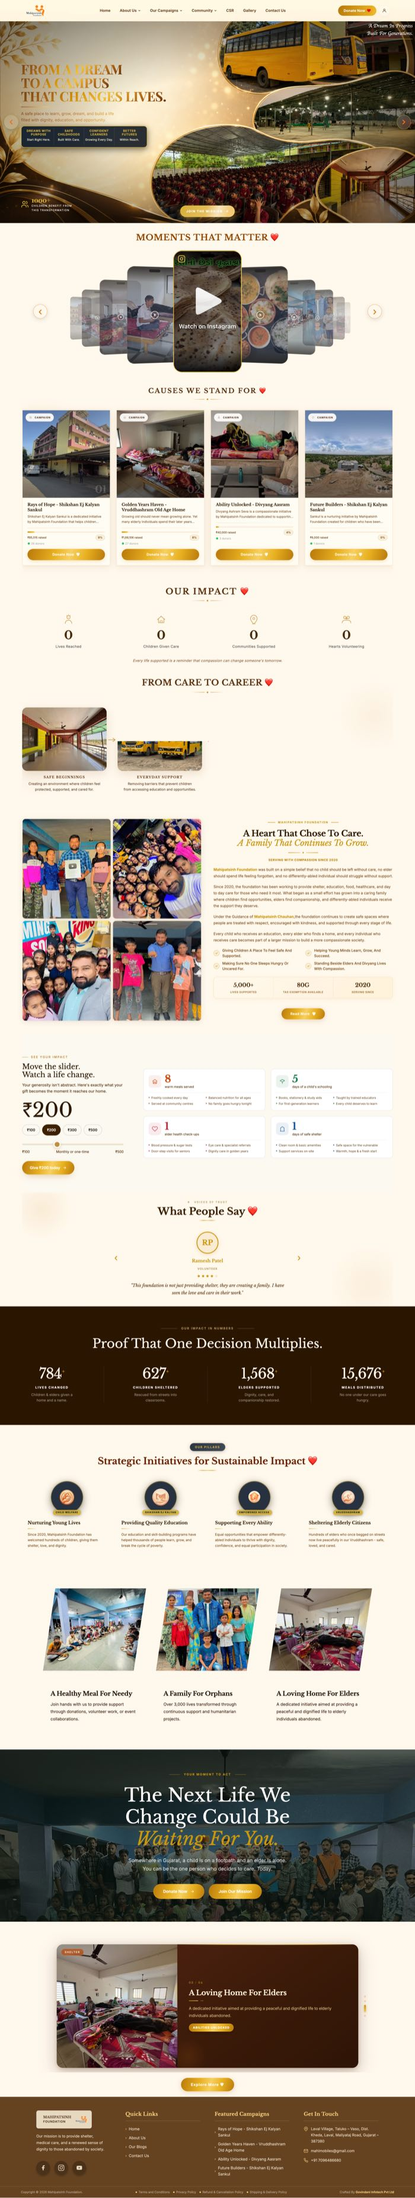
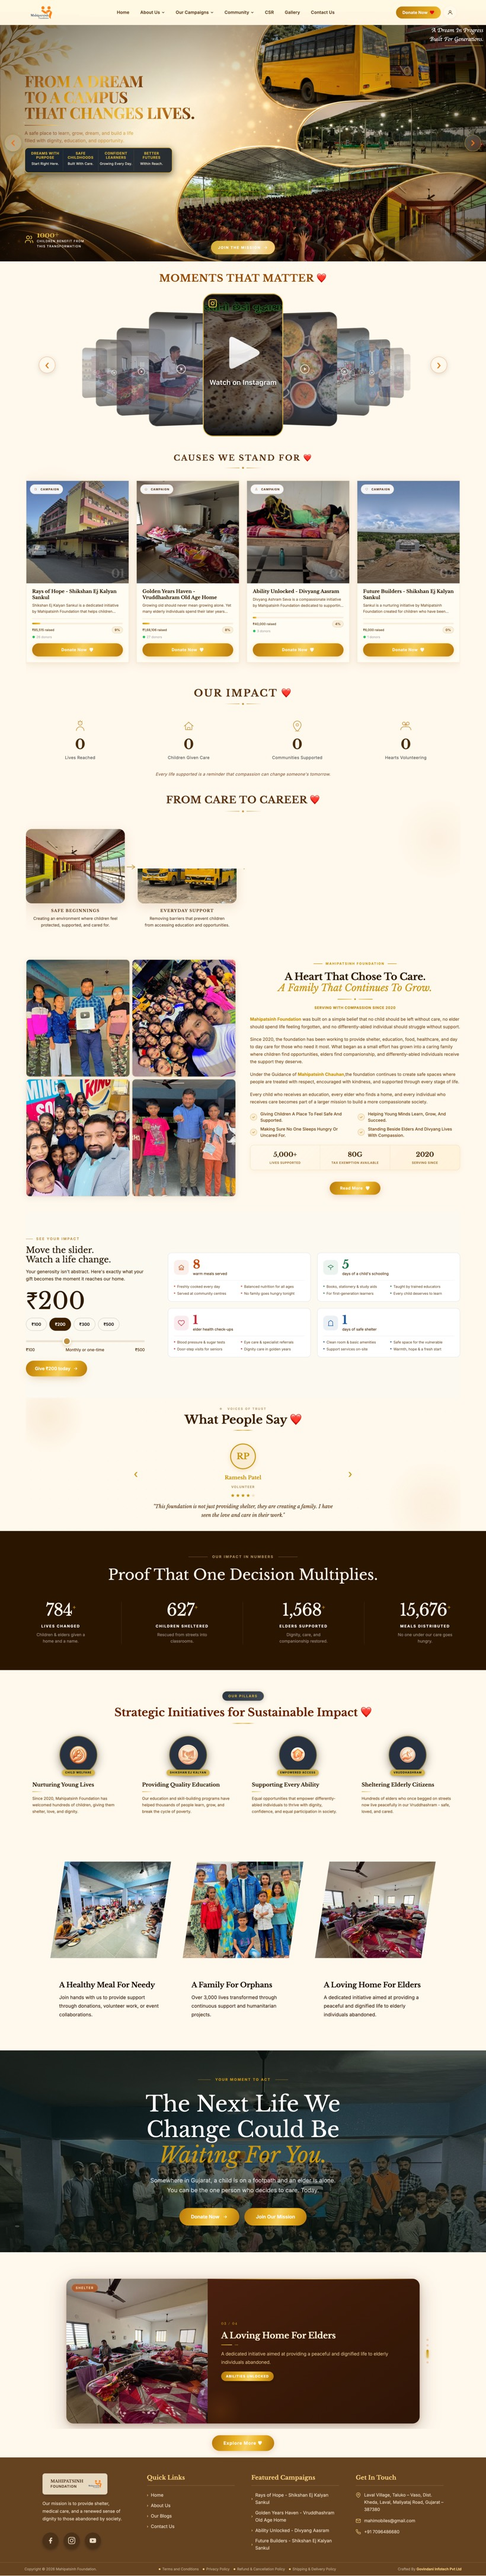
USA landing page (/usa), mahipat screenshot refresh, hide NGO-backbone section
- New /usa + /us dedicated landing: clean standalone (site header/bottom-nav
  hidden on these routes), hero, NGO/E-commerce/Healthcare work carousels,
  US-registration trust block, Calendly booking, footer
- Mahipatsinh Foundation: new full-page 'campus' capture used everywhere
  (homepage LatestWork + NGO portfolio card)
- Hide 'We build backbones' NGO-infrastructure section from homepage

Changed region(s): [[0.27, 0.3723, 0.3, 0.4033]]

diff --git a/src/pages/UsaLanding.tsx b/src/pages/UsaLanding.tsx
@@ -1,0 +1,181 @@
+import { useEffect } from 'react';
+import { Helmet } from 'react-helmet-async';
+import '@/styles/usa.css';
+
+/**
+ * Dedicated USA landing page — a single shareable link for US prospects.
+ * Showcases our website + social-media services, real work by category
+ * (NGO / E-Commerce / Healthcare carousels), our US registration for trust,
+ * and a Calendly booking to schedule a consultation.
+ *
+ * PLACEHOLDERS to confirm with the client:
+ *   - CALENDLY_URL  → replace with the real Calendly scheduling link
+ *   - LEGAL_DOCS    → add the actual US registration / incorporation document images/PDFs
+ *   - a few USA-specific site links the client will share
+ */
+
+const CALENDLY_URL = 'https://calendly.com/govindaniit/consultation'; // TODO: confirm real link
+const R2 = 'https://pub-8d8c06eb82144fca803dab6ccecd7b41.r2.dev/Images';
+const ECOM = `${R2}/PortfolioProjects/PortFolioWebsites/E-Commerce`;
+
+const NGO_WORK = [
+  { name: 'Mahipatsinh Foundation', url: 'https://mahipatsinhfoundation.org', img: '/images/portfolio-sites/mahipatsinh.jpg' },
+  { name: 'Aajol Parivar', url: 'https://aajol.org', img: '/images/portfolio-sites/aajol-parivar.jpg' },
+  { name: 'Anugrah Foundation', url: 'https://anugrahfoundation.org', img: '/images/portfolio-sites/anugrah-foundation.jpg' },
+  { name: 'Amee Foundation', url: 'https://ameefoundation.com', img: '/images/portfolio-sites/amee-foundation.jpg' },
+  { name: 'Nostro Destino Foundation', url: 'https://nostrodestino.org', img: '/images/portfolio-sites/nostro-destino-foundation.jpg' },
+  { name: 'Bhumi Mitra Foundation', url: 'https://bhumimitra.org', img: '/images/portfolio-sites/bhumi-mitra-foundation.jpg' },
+  { name: 'Kishan Singh Foundation', url: 'https://kishanfoundation.org', img: '/images/portfolio-sites/kishan-singh-foundation.jpg' },
+  { name: 'Handmade Heart Foundation', url: 'https://handmadehearts.org', img: '/images/portfolio-sites/handmade-heart-foundation.jpg' },
+];
+
+const ECOM_WORK = [
+  { name: 'Baba Ji Ki Buti', url: 'https://babajikibuti.com/home', img: `${ECOM}/Coding/Coding-Babajikibuti.webp` },
+  { name: 'Tarush Pranaa', url: 'https://tarushpranaa.com', img: `${ECOM}/Coding/Coding-Tarushpranna.webp` },
+  { name: 'Terra by Trishla', url: '#', img: `${ECOM}/Wordpress/Wordpress-Terra-By-Trishla.webp` },
+  { name: 'GSD Organics', url: '#', img: `${ECOM}/Wordpress/Wordpress-Gsd-Organics.webp` },
+  { name: 'Mukta Shop', url: '#', img: `${ECOM}/Shopify/Shopify-Muktashop.webp` },
+  { name: 'Gllora', url: '#', img: `${ECOM}/Shopify/Shopify-Gllora.webp` },
+  { name: 'Kryelet Studios', url: '#', img: `${ECOM}/Shopify/Shopify-kryelet-studios.webp` },
+];
+
+const HEALTH_WORK = [
+  { name: 'Dentivaa', url: 'https://dentivaa.com', img: '/images/portfolio-sites/dentivaa.jpg' },
+  { name: 'Mahaveer Eye Hospital', url: 'https://mahaveereyehospital.com', img: `${R2}/PortfolioProjects/PortFolioWebsites/Healthcare/Healthcare-mahaveer-eye-hospital.webp` },
+];
+
+function Carousel({ id, items }: { id: string; items: { name: string; url: string; img: string }[] }) {
+  return (
+    <div className="gusa-rail" aria-label={id}>
+      {items.map((w) => (
+        <a key={w.name} className="gusa-slide" href={w.url && w.url !== '#' ? w.url : undefined}
+           target={w.url && w.url !== '#' ? '_blank' : undefined} rel="noopener noreferrer">
+          <div className="gusa-shot"><img src={w.img} alt={`${w.name} website by Govindani Infotech`} loading="lazy" /></div>
+          <span className="gusa-slide-name">{w.name}{w.url && w.url !== '#' && <em> &#8599;</em>}</span>
+        </a>
+      ))}
+    </div>
+  );
+}
+
+export default function UsaLanding() {
+  useEffect(() => {
+    // Load Calendly inline widget assets once.
+    const css = document.createElement('link');
+    css.rel = 'stylesheet'; css.href = 'https://assets.calendly.com/assets/external/widget.css';
+    document.head.appendChild(css);
+    const s = document.createElement('script');
+    s.src = 'https://assets.calendly.com/assets/external/widget.js'; s.async = true;
+    document.body.appendChild(s);
+    return () => { css.remove(); s.remove(); };
+  }, []);
+
+  return (
+    <div className="gusa">
+      <Helmet>
+        <title>US Web &amp; Social Media Partner | Govindani Infotech</title>
+        <meta name="description" content="Govindani Infotech builds high-converting websites, e-commerce stores and social media for US businesses & non-profits. US-registered. Book a free consultation." />
+      </Helmet>
+
+      {/* top bar */}
+      <header className="gusa-top">
+        <img className="gusa-logo" src={`${R2}/govindanilogo-400w.webp`} alt="Govindani Infotech" />
+        <a className="gusa-top-cta" href="#book">Book a consultation</a>
+      </header>
+
+      {/* hero */}
+      <section className="gusa-hero">
+        <div className="gusa-hero-in">
+          <p className="gusa-eyebrow">US-registered &middot; Wyoming, USA</p>
+          <h1 className="gusa-h1">Websites &amp; social media that<br /><em>grow US businesses</em></h1>
+          <p className="gusa-lead">
+            We design, build and market high-converting websites, online stores and social presence for
+            US companies and non-profits &mdash; custom-coded to your goals, delivered end-to-end.
+          </p>
+          <div className="gusa-hero-cta">
+            <a className="gusa-btn" href="#book">Book a free consultation &rarr;</a>
+            <a className="gusa-btn gusa-btn-ghost" href="#work">See our work</a>
+          </div>
+          <ul className="gusa-trustchips">
+            <li>&#127482;&#127480; US-registered entity</li>
+            <li>&#10003; Meta Business Partner</li>
+            <li>&#10003; 200+ websites delivered</li>
+          </ul>
+        </div>
+      </section>
+
+      {/* services */}
+      <section className="gusa-services">
+        <h2 className="gusa-h2">What we do for you</h2>
+        <div className="gusa-svc-grid">
+          <div className="gusa-svc"><span className="gusa-svc-ic">&#128187;</span><h3>Website design &amp; development</h3><p>Custom, fast, mobile-first websites that turn visitors into customers.</p></div>
+          <div className="gusa-svc"><span className="gusa-svc-ic">&#128722;</span><h3>E-commerce stores</h3><p>Shopify, WooCommerce &amp; custom stores built to sell and scale.</p></div>
+          <div className="gusa-svc"><span className="gusa-svc-ic">&#128241;</span><h3>Social media marketing</h3><p>Content, campaigns and Meta ads managed by a Meta Business Partner.</p></div>
+        </div>
+      </section>
+
+      {/* work carousels */}
+      <section className="gusa-work" id="work">
+        <h2 className="gusa-h2">A snapshot of our work</h2>
+        <p className="gusa-sub">A few examples per category &mdash; scroll sideways. Every site below is live and custom-built.</p>
+
+        <div className="gusa-cat">
+          <h3 className="gusa-cat-h">Non-profit &amp; NGO websites</h3>
+          <Carousel id="NGO work" items={NGO_WORK} />
+        </div>
+        <div className="gusa-cat">
+          <h3 className="gusa-cat-h">E-commerce &amp; online stores</h3>
+          <Carousel id="E-commerce work" items={ECOM_WORK} />
+        </div>
+        <div className="gusa-cat">
+          <h3 className="gusa-cat-h">Healthcare &amp; clinics</h3>
+          <Carousel id="Healthcare work" items={HEALTH_WORK} />
+        </div>
+      </section>
+
+      {/* legal / registration */}
+      <section className="gusa-legal">
+        <div className="gusa-legal-in">
+          <div className="gusa-legal-copy">
+            <p className="gusa-eyebrow">Registered &amp; accountable</p>
+            <h2 className="gusa-h2 gusa-h2-left">A US-registered company you can trust</h2>
+            <p className="gusa-lead">
+              Govindani Infotech is a registered business in the United States, so you work with a
+              legally accountable partner &mdash; contracts, invoicing and support, all above board.
+            </p>
+            <p className="gusa-addr">&#128205; 30 N Gould St, Ste N, Sheridan, WY 82801, USA</p>
+          </div>
+          <div className="gusa-legal-docs">
+            {/* TODO: replace with real US registration / incorporation document images */}
+            <div className="gusa-doc-ph">US Registration Certificate<span>document to be added</span></div>
+            <div className="gusa-doc-ph">EIN / Incorporation<span>document to be added</span></div>
+          </div>
+        </div>
+      </section>
+
+      {/* trust / thank you */}
+      <section className="gusa-thanks">
+        <h2 className="gusa-h2">Thank you for trusting us</h2>
+        <p className="gusa-lead gusa-center">
+          Every brand on this page put their vision in our hands &mdash; and we delivered. We&rsquo;d be
+          honored to do the same for you. No pressure, just an honest conversation about your goals.
+        </p>
+      </section>
+
+      {/* calendly booking */}
+      <section className="gusa-book" id="book">
+        <h2 className="gusa-h2">Book your free consultation</h2>
+        <p className="gusa-sub">Pick a time that works for you &mdash; we&rsquo;ll walk you through exactly how we&rsquo;d approach your project.</p>
+        <div className="calendly-inline-widget gusa-calendly" data-url={CALENDLY_URL} style={{ minWidth: '320px', height: '680px' }} />
+        <p className="gusa-book-fallback">Prefer to talk first? WhatsApp us at{' '}
+          <a href="https://wa.me/919201958278" target="_blank" rel="noopener noreferrer">+91 92019 58278</a>.</p>
+      </section>
+
+      <footer className="gusa-foot">
+        <img className="gusa-logo" src={`${R2}/govindanilogo-400w.webp`} alt="Govindani Infotech" />
+        <p>Govindani Infotech Pvt. Ltd. &middot; USA: 30 N Gould St, Ste N, Sheridan, WY 82801</p>
+        <p className="gusa-foot-sm">&copy; {new Date().getFullYear()} Govindani Infotech. All rights reserved.</p>
+      </footer>
+    </div>
+  );
+}

diff --git a/src/styles/usa.css b/src/styles/usa.css
@@ -1,0 +1,126 @@
+@import url('https://fonts.googleapis.com/css2?family=Sora:wght@400;600;700;800&family=Cormorant+Garamond:wght@600;700&display=swap');
+
+/* USA landing page — namespaced .gusa. Light, trustworthy, gold-accented. */
+.gusa {
+  --gold: #b8860b; --gold-lt: #dca63a; --navy: #0b1929; --ink: #1a1a22;
+  --cream: #faf6ee; --line: #ece3d3; --muted: #6b6357;
+  font-family: 'Sora', system-ui, sans-serif; color: var(--ink);
+  background: #fffdf8;
+}
+.gusa * { box-sizing: border-box; }
+.gusa img { max-width: 100%; display: block; }
+
+/* top bar */
+.gusa-top {
+  position: sticky; top: 0; z-index: 50; display: flex; align-items: center; justify-content: space-between;
+  padding: 12px clamp(16px, 4vw, 44px); background: rgba(255,253,248,.92);
+  backdrop-filter: blur(10px); border-bottom: 1px solid var(--line);
+}
+.gusa-logo { height: 40px; width: auto; }
+.gusa-top-cta {
+  background: linear-gradient(90deg, var(--gold), var(--gold-lt)); color: #fff; text-decoration: none;
+  font-weight: 700; font-size: .9rem; padding: 11px 22px; border-radius: 999px;
+  box-shadow: 0 10px 26px -10px rgba(184,134,11,.6);
+}
+
+/* hero */
+.gusa-hero {
+  background:
+    radial-gradient(60% 80% at 80% 0%, rgba(220,166,58,.16), transparent 60%),
+    linear-gradient(180deg, var(--cream), #fffdf8);
+  padding: clamp(48px, 8vw, 96px) clamp(20px, 5vw, 60px);
+}
+.gusa-hero-in { max-width: 900px; margin: 0 auto; text-align: center; }
+.gusa-eyebrow {
+  font-weight: 700; letter-spacing: .18em; text-transform: uppercase; font-size: .74rem;
+  color: var(--gold); margin: 0 0 14px;
+}
+.gusa-h1 {
+  font-family: 'Cormorant Garamond', Georgia, serif; font-weight: 700;
+  font-size: clamp(2.3rem, 6vw, 4rem); line-height: 1.03; margin: 0 0 18px; color: var(--navy);
+  text-wrap: balance;
+}
+.gusa-h1 em { font-style: normal; background: linear-gradient(90deg, var(--gold), var(--gold-lt)); -webkit-background-clip: text; background-clip: text; color: transparent; }
+.gusa-lead { font-size: clamp(1rem, 1.5vw, 1.18rem); line-height: 1.65; color: var(--muted); max-width: 42rem; margin: 0 auto; }
+.gusa-hero-cta { display: flex; flex-wrap: wrap; gap: 14px; justify-content: center; margin: 30px 0 22px; }
+.gusa-btn {
+  display: inline-flex; align-items: center; gap: 8px; text-decoration: none; cursor: pointer; border: 0;
+  font-family: inherit; font-weight: 700; font-size: 1rem; padding: 15px 32px; border-radius: 999px;
+  color: #fff; background: linear-gradient(90deg, var(--gold), var(--gold-lt));
+  box-shadow: 0 14px 34px -10px rgba(184,134,11,.55); transition: transform .18s ease;
+}
+.gusa-btn:hover { transform: translateY(-3px); }
+.gusa-btn-ghost { background: transparent; color: var(--navy); border: 1px solid var(--line); box-shadow: none; }
+.gusa-trustchips { list-style: none; display: flex; flex-wrap: wrap; gap: 10px 22px; justify-content: center; padding: 0; margin: 8px 0 0; }
+.gusa-trustchips li { font-size: .9rem; font-weight: 600; color: var(--navy); }
+
+/* section shells */
+.gusa-h2 { font-family: 'Cormorant Garamond', Georgia, serif; font-weight: 700; font-size: clamp(1.8rem, 3.6vw, 2.7rem); color: var(--navy); text-align: center; margin: 0 0 8px; text-wrap: balance; }
+.gusa-h2-left { text-align: left; }
+.gusa-sub { text-align: center; color: var(--muted); max-width: 44rem; margin: 0 auto clamp(24px, 3vw, 38px); font-size: 1rem; }
+
+/* services */
+.gusa-services { padding: clamp(48px, 7vw, 88px) clamp(20px, 5vw, 60px); }
+.gusa-svc-grid { max-width: 1080px; margin: 28px auto 0; display: grid; grid-template-columns: repeat(3, 1fr); gap: 20px; }
+.gusa-svc { background: #fff; border: 1px solid var(--line); border-radius: 18px; padding: 30px 26px; box-shadow: 0 20px 50px -34px rgba(90,60,10,.4); }
+.gusa-svc-ic { font-size: 1.9rem; }
+.gusa-svc h3 { font-size: 1.12rem; margin: 14px 0 8px; color: var(--navy); }
+.gusa-svc p { margin: 0; color: var(--muted); font-size: .96rem; line-height: 1.55; }
+
+/* work carousels */
+.gusa-work { padding: clamp(40px, 6vw, 80px) 0; background: var(--cream); }
+.gusa-work .gusa-h2, .gusa-work .gusa-sub { padding: 0 20px; }
+.gusa-cat { margin-top: clamp(28px, 4vw, 44px); }
+.gusa-cat-h { font-size: 1.05rem; font-weight: 700; color: var(--navy); margin: 0 0 14px; padding: 0 clamp(20px, 5vw, 60px); }
+.gusa-rail {
+  display: flex; gap: 18px; overflow-x: auto; scroll-snap-type: x mandatory;
+  padding: 4px clamp(20px, 5vw, 60px) 18px; -webkit-overflow-scrolling: touch;
+}
+.gusa-rail::-webkit-scrollbar { height: 8px; }
+.gusa-rail::-webkit-scrollbar-thumb { background: rgba(184,134,11,.35); border-radius: 999px; }
+.gusa-slide { flex: 0 0 auto; width: clamp(260px, 30vw, 340px); scroll-snap-align: start; text-decoration: none; color: inherit; }
+.gusa-shot { height: 300px; overflow: hidden; border-radius: 16px; border: 1px solid var(--line); background: #fff; box-shadow: 0 22px 54px -30px rgba(30,20,0,.5); }
+.gusa-shot img { width: 100%; height: auto; object-fit: cover; object-position: center top; transition: object-position 4.5s ease; }
+.gusa-slide:hover .gusa-shot img { object-position: center bottom; }
+.gusa-slide-name { display: block; margin-top: 12px; font-weight: 600; font-size: .96rem; color: var(--navy); }
+.gusa-slide-name em { font-style: normal; color: var(--gold); }
+
+/* legal */
+.gusa-legal { padding: clamp(48px, 7vw, 88px) clamp(20px, 5vw, 60px); }
+.gusa-legal-in { max-width: 1080px; margin: 0 auto; display: grid; grid-template-columns: 1.1fr .9fr; gap: clamp(28px, 4vw, 56px); align-items: center; }
+.gusa-addr { font-weight: 600; color: var(--navy); margin: 16px 0 0; }
+.gusa-legal-docs { display: grid; grid-template-columns: 1fr 1fr; gap: 16px; }
+.gusa-doc-ph {
+  aspect-ratio: 3/4; border: 2px dashed var(--line); border-radius: 14px; background: var(--cream);
+  display: flex; flex-direction: column; align-items: center; justify-content: center; text-align: center;
+  font-weight: 700; color: var(--navy); font-size: .92rem; padding: 16px; gap: 6px;
+}
+.gusa-doc-ph span { font-weight: 500; font-size: .76rem; color: var(--muted); }
+
+/* thanks */
+.gusa-thanks { padding: clamp(48px, 7vw, 84px) clamp(20px, 5vw, 60px); background: var(--navy); color: #fff; text-align: center; }
+.gusa-thanks .gusa-h2 { color: #fff; }
+.gusa-center { margin-left: auto; margin-right: auto; }
+.gusa-thanks .gusa-lead { color: rgba(255,255,255,.8); }
+
+/* booking */
+.gusa-book { padding: clamp(48px, 7vw, 88px) clamp(20px, 5vw, 60px); }
+.gusa-calendly { max-width: 1000px; margin: 8px auto 0; border: 1px solid var(--line); border-radius: 16px; overflow: hidden; }
+.gusa-book-fallback { text-align: center; color: var(--muted); margin-top: 18px; }
+.gusa-book-fallback a { color: var(--gold); font-weight: 600; }
+
+/* footer */
+.gusa-foot { background: #08101c; color: rgba(255,255,255,.8); text-align: center; padding: 40px 20px; }
+.gusa-foot .gusa-logo { height: 44px; margin: 0 auto 14px; }
+.gusa-foot p { margin: 4px 0; font-size: .9rem; }
+.gusa-foot-sm { color: rgba(255,255,255,.5); font-size: .8rem; }
+
+/* responsive */
+@media (max-width: 900px) {
+  .gusa-svc-grid { grid-template-columns: 1fr; }
+  .gusa-legal-in { grid-template-columns: 1fr; }
+}
+@media (prefers-reduced-motion: reduce) {
+  .gusa-btn:hover { transform: none; }
+  .gusa-shot img { transition: none; }
+}

diff --git a/src/App.tsx b/src/App.tsx
@@ -4,7 +4,7 @@ import { HelmetProvider } from "react-helmet-async";
 // import { Toaster as Sonner } from "@/components/ui/sonner";
 import { TooltipProvider } from "@/components/ui/tooltip";
 import { QueryClient, QueryClientProvider } from "@tanstack/react-query";
-import { Routes, Route, BrowserRouter } from "react-router-dom";
+import { Routes, Route, BrowserRouter, useLocation } from "react-router-dom";
 
 import { ScrollToTop } from "./components/ScrollToTop";
 import LangSync from "./i18n/LangSync";
@@ -19,6 +19,7 @@ import GetQuoteFloating from "./components/GetQuoteFloating";
 import ChatWidget from "./components/ChatWidget";
 import BottomNav from "./components/BottomNav/BottomNav";
 const AllServices = lazy(() => import("./pages/AllServices"));
+const UsaLanding = lazy(() => import("./pages/UsaLanding"));
 const VideoSection = lazy(() => import("./components/HomePage/Section2Video"));
 
 
@@ -145,6 +146,10 @@ const FAQPage = lazy(() => import("./pages/FAQPage"));
 
 const queryClient = new QueryClient();
 
+const CLEAN_ROUTES = ["/usa", "/us"];
+function SiteHeader() { const { pathname } = useLocation(); return CLEAN_ROUTES.includes(pathname) ? null : <Header />; }
+function SiteBottomNav() { const { pathname } = useLocation(); return CLEAN_ROUTES.includes(pathname) ? null : <BottomNav />; }
+
 const App = () => (
   <HelmetProvider>
   <QueryClientProvider client={queryClient}>
@@ -156,7 +161,7 @@ const App = () => (
           {/* <Toaster /> */}
           {/* <Sonner /> */}
           
-          <Header />
+          <SiteHeader />
 
           <LangSync />
         <ScrollToTop />
@@ -167,6 +172,8 @@ const App = () => (
             <Route path="/portfolio/virtual-tour" element={<Virtualtour />} />
             <Route path="/portfolio/ecommerce" element={<EcommercePage />} />
             <Route path="/portfolio/ngo" element={< Ngoportfolio/>} />
+            <Route path="/usa" element={<UsaLanding/>} />
+            <Route path="/us" element={<UsaLanding/>} />
             <Route path="/portfolio/builders" element={<RealEstatePage/>} /> 
             <Route path="/portfolio/business" element={<BusinessWebsitesPage />} /> 
             <Route path="/services/ci-crm" element={<CIBuilderCRM />} />
@@ -291,7 +298,7 @@ const App = () => (
           mobile too — sitting clear of the dock (see the mobile CSS). */}
       <ChatWidget />
 
-      <BottomNav />
+      <SiteBottomNav />
     </BrowserRouter>
   </QueryClientProvider>
   </HelmetProvider>

diff --git a/src/pages/NGOportfolio.tsx b/src/pages/NGOportfolio.tsx
@@ -351,7 +351,7 @@ const NgoPortfolio = () => {
   const allProjects = [
     { title: "Popatbhai Charitable Trust", category: "ngo", url: "https://popatbhaicharitablefoundation.org/", image: "https://pub-8d8c06eb82144fca803dab6ccecd7b41.r2.dev/Images/PortfolioProjects/PortFolioWebsites/Ngo-Projects/Ngo-Popatbhai-Charitable-Trust.webp" },
     { title: "Harsh Chhikkara Jan Seva Trust", category: "ngo", url: "https://harshchhikara.com/", image: "https://pub-8d8c06eb82144fca803dab6ccecd7b41.r2.dev/Images/PortfolioProjects/PortFolioWebsites/Ngo-Projects/Ngo-Harsh-Chhikkara-Jan-Seva-Trust.webp" },
-    { title: "Mahipatsinh Foundation", category: "ngo", url: "https://mahipatsinhfoundation.org/", image: "https://pub-8d8c06eb82144fca803dab6ccecd7b41.r2.dev/Images/PortfolioProjects/PortFolioWebsites/Ngo-Projects/Ngo-Mahipatsinh-Foundation.webp" },
+    { title: "Mahipatsinh Foundation", category: "ngo", url: "https://mahipatsinhfoundation.org/", image: "/images/portfolio-sites/mahipatsinh.jpg" },
     { title: "Gau Seva Dham", category: "ngo", url: "https://gausevadham.org/", image: "https://pub-8d8c06eb82144fca803dab6ccecd7b41.r2.dev/Images/PortfolioProjects/PortFolioWebsites/Ngo-Projects/Ngo-Gau-Seva-Dham.webp" },
     { title: "Community Welfare", category: "ngo", url: "https://mallakhambartist.org/", image: "https://pub-8d8c06eb82144fca803dab6ccecd7b41.r2.dev/Images/PortfolioProjects/PortFolioWebsites/Ngo-Projects/Ngo-Mallakhamb-Artist.webp" },
     { title: "Nanhi Pari Foundation", category: "ngo", url: "https://nanhiparifoundation.org/", image: "https://pub-8d8c06eb82144fca803dab6ccecd7b41.r2.dev/Images/PortfolioProjects/PortFolioWebsites/Ngo-Projects/Ngo-Nanhi-Pari-Foundationngo.webp" },

diff --git a/src/pages/Index.tsx b/src/pages/Index.tsx
@@ -44,7 +44,8 @@ const Index = () => {
         <FunkyHinglishSection/>
         <PortfolioSection/>
         <PortfolioShowcase/>
-        <NGOdisplay/>
+        {/* NGOdisplay ("We build backbones" NGO-infrastructure section) hidden from home per request */}
+        {/* <NGOdisplay/> */}
         {/* <ContactUsPage/> */}
         {/* <NgoFooter/> */}
         {/* <ContentMarketing/> */}
